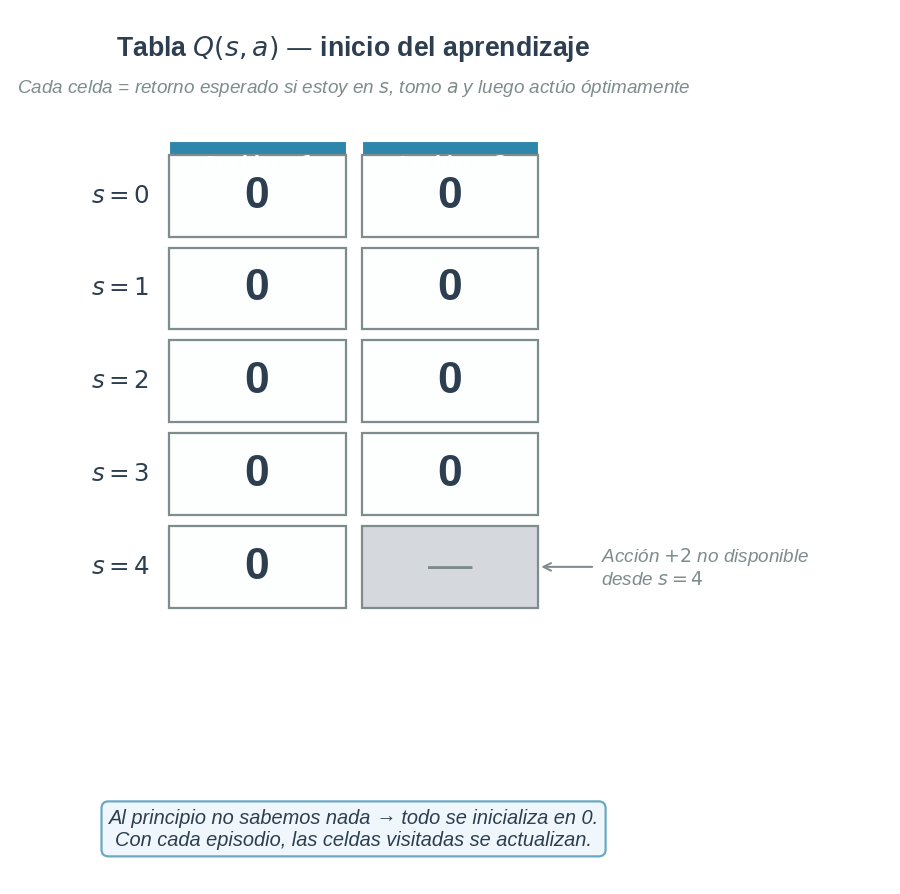
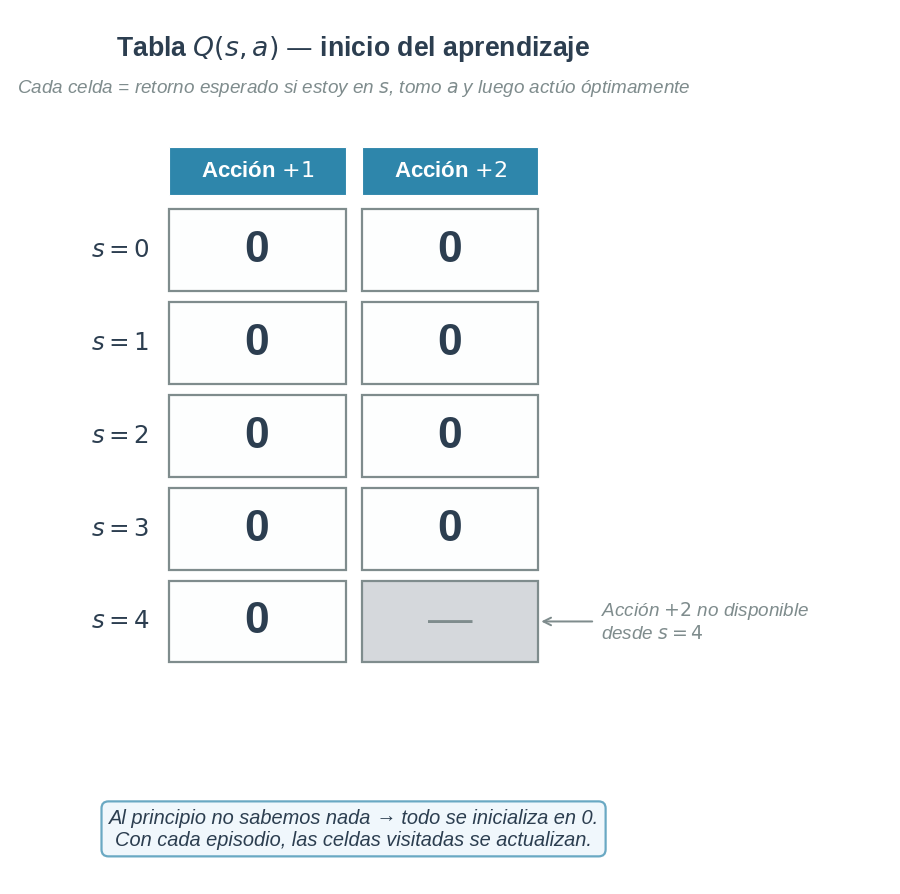
fixes

diff --git a/clase/23_reinforcement_learning/lab_rl.py b/clase/23_reinforcement_learning/lab_rl.py
@@ -371,8 +371,13 @@ def plot_q_table_empty():
 
     cw, rh = 1.2, 0.85          # cell width, cell height (data units)
     x0 = 0.30                    # x-center of column 0
-    y0 = 4.75                    # y-center of row 0
+    header_h = 0.44              # height of column header band
+    y0 = 4.25                    # y-center of row 0 (positioned below header)
     grid_cx = x0 + 0.5 * cw     # horizontal center of the two-column grid
+
+    # header sits above row 0 with a small gap
+    header_bot = y0 + rh * 0.5 + 0.08
+    header_cy  = header_bot + header_h / 2
 
     ax.set_xlim(-1.2, 4.2)
     ax.set_ylim(-1.5, 6.4)
@@ -393,11 +398,11 @@ def plot_q_table_empty():
     for j, cl in enumerate(col_labels):
         hx = x0 + j * cw
         rect = plt.Rectangle(
-            (hx - cw / 2 + 0.05, y0 + 0.06), cw - 0.10, 0.44,
+            (hx - cw / 2 + 0.05, header_bot), cw - 0.10, header_h,
             facecolor=COLORS["blue"], edgecolor="white", linewidth=0.5, zorder=2)
         ax.add_patch(rect)
-        ax.text(hx, y0 + 0.28, cl, ha="center", va="center",
-                fontsize=10, color="white", fontweight="bold")
+        ax.text(hx, header_cy, cl, ha="center", va="center",
+                fontsize=10, color="white", fontweight="bold", zorder=3)
 
     # Rows: label + cells
     for i in range(5):

diff --git a/clase/23_reinforcement_learning/03_sarsa.md b/clase/23_reinforcement_learning/03_sarsa.md
@@ -34,6 +34,13 @@ Comparado con el esqueleto TD de la sección anterior, el `?` se llena con $Q(s'
 
 ## Pseudocódigo
 
+**Antes de ver el código, la idea en palabras:**
+Al inicio de cada episodio, el agente observa el estado $s$ y ya elige la primera acción $a$ con $\varepsilon$-greedy — esto es clave en SARSA.
+Luego entra al bucle: ejecuta $a$, recibe la recompensa $r$ y llega a $s'$.
+Ahora, *antes* de actualizar $Q$, elige la siguiente acción $a'$ usando la misma política $\varepsilon$-greedy.
+Con los cinco elementos $(s, a, r, s', a')$ en mano, aplica la regla de actualización y avanza: $s$ pasa a ser $s'$ y $a$ pasa a ser $a'$.
+El ciclo se repite hasta llegar al estado terminal.
+
 ```
 SARSA(α, γ, ε, num_episodios):
   Inicializa Q[s, a] ← 0 para todo (s, a)